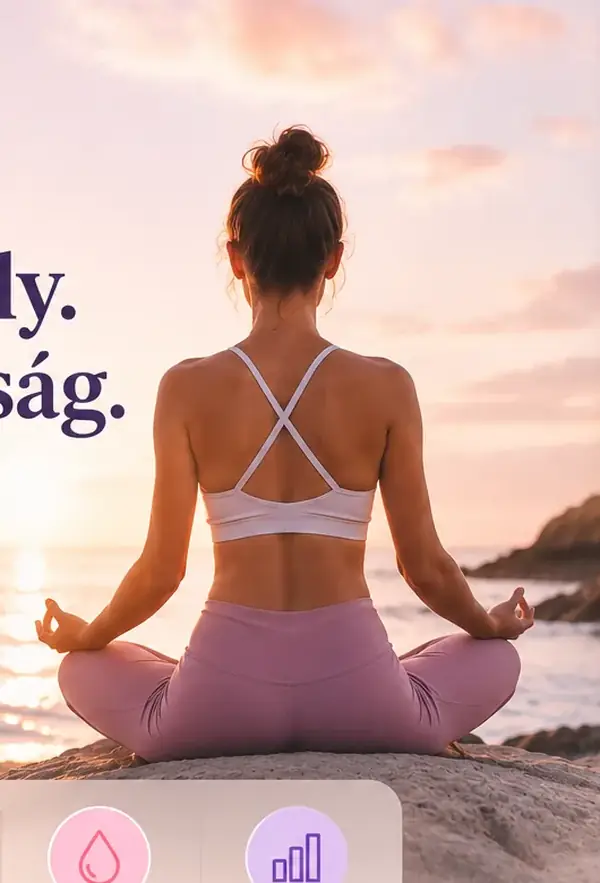
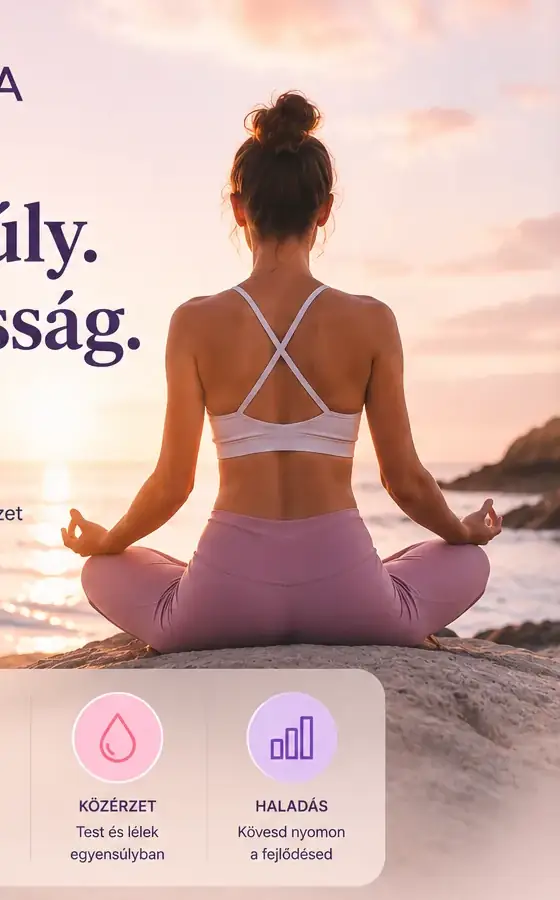
Zenvyra speed fix 2 mobile optimization

diff --git a/app/globals.css b/app/globals.css
@@ -4151,8 +4151,7 @@ button {
   }
 }
 
-/* Speed Fix 2: responsive landing artwork.
-   Mobile receives a dedicated 22 KB crop instead of the desktop composite. */
+/* SPEED FIX 2: only the correct hero asset is downloaded for the viewport. */
 .welcome-hero-picture {
   position: absolute;
   inset: 0;
@@ -4167,22 +4166,12 @@ button {
 }
 
 @media (max-width: 720px) {
-  .hero-panel {
-    min-height: 430px;
-    height: 52svh;
-    max-height: 560px;
-    border-right: 0;
+  .hero-panel,
+  .hero-content {
+    min-height: min(72vh, 620px);
   }
 
   .welcome-hero-picture .welcome-hero-image {
-    object-position: center 42%;
-  }
-
-  .hero-panel::after {
-    display: none;
-  }
-
-  .login-side {
-    padding: 28px 16px 48px;
+    object-position: center center;
   }
 }
